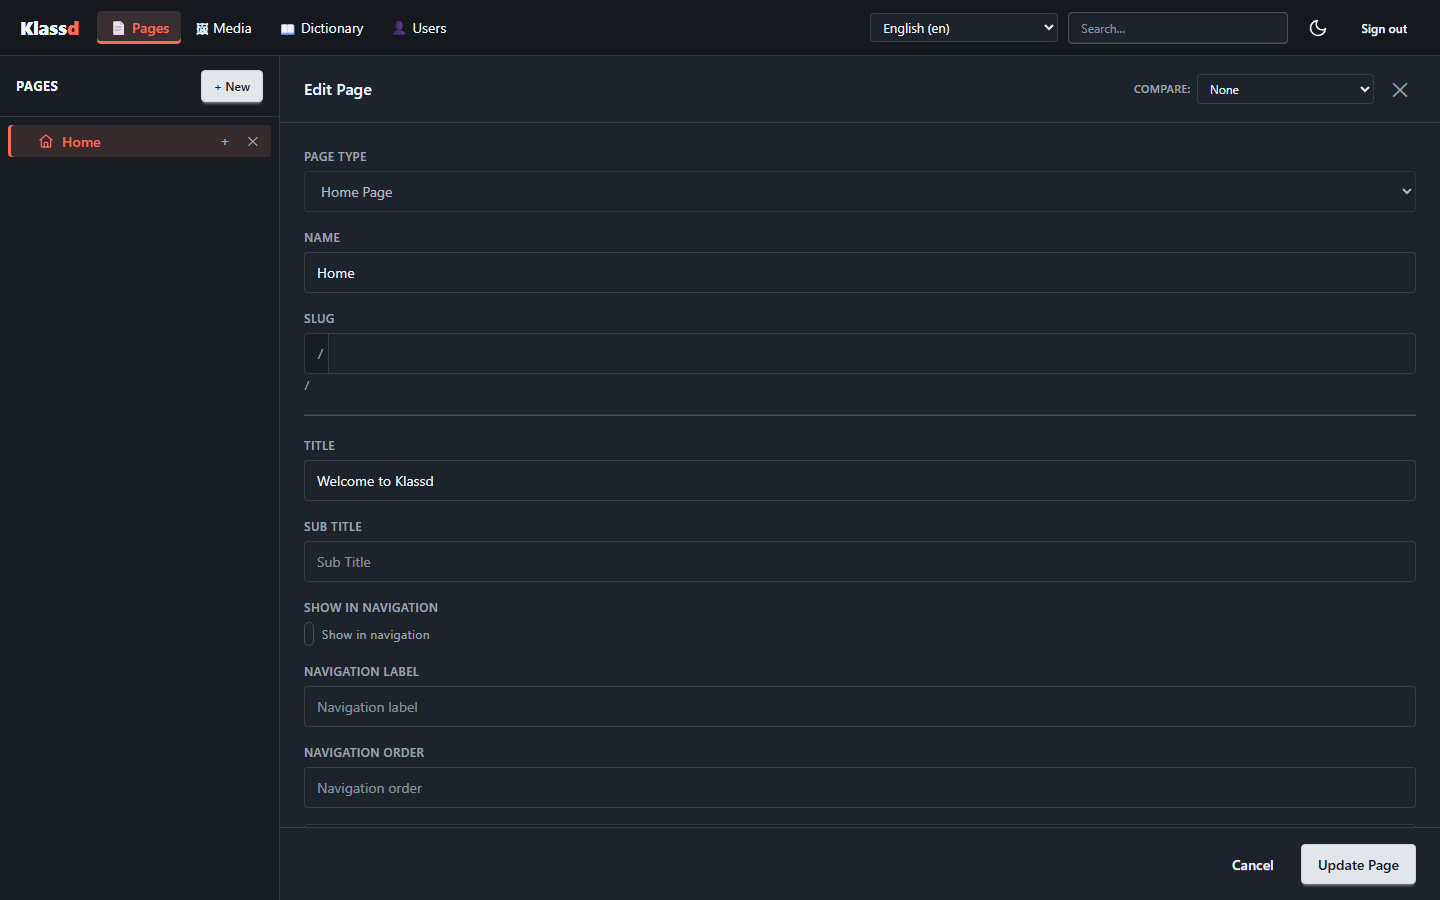
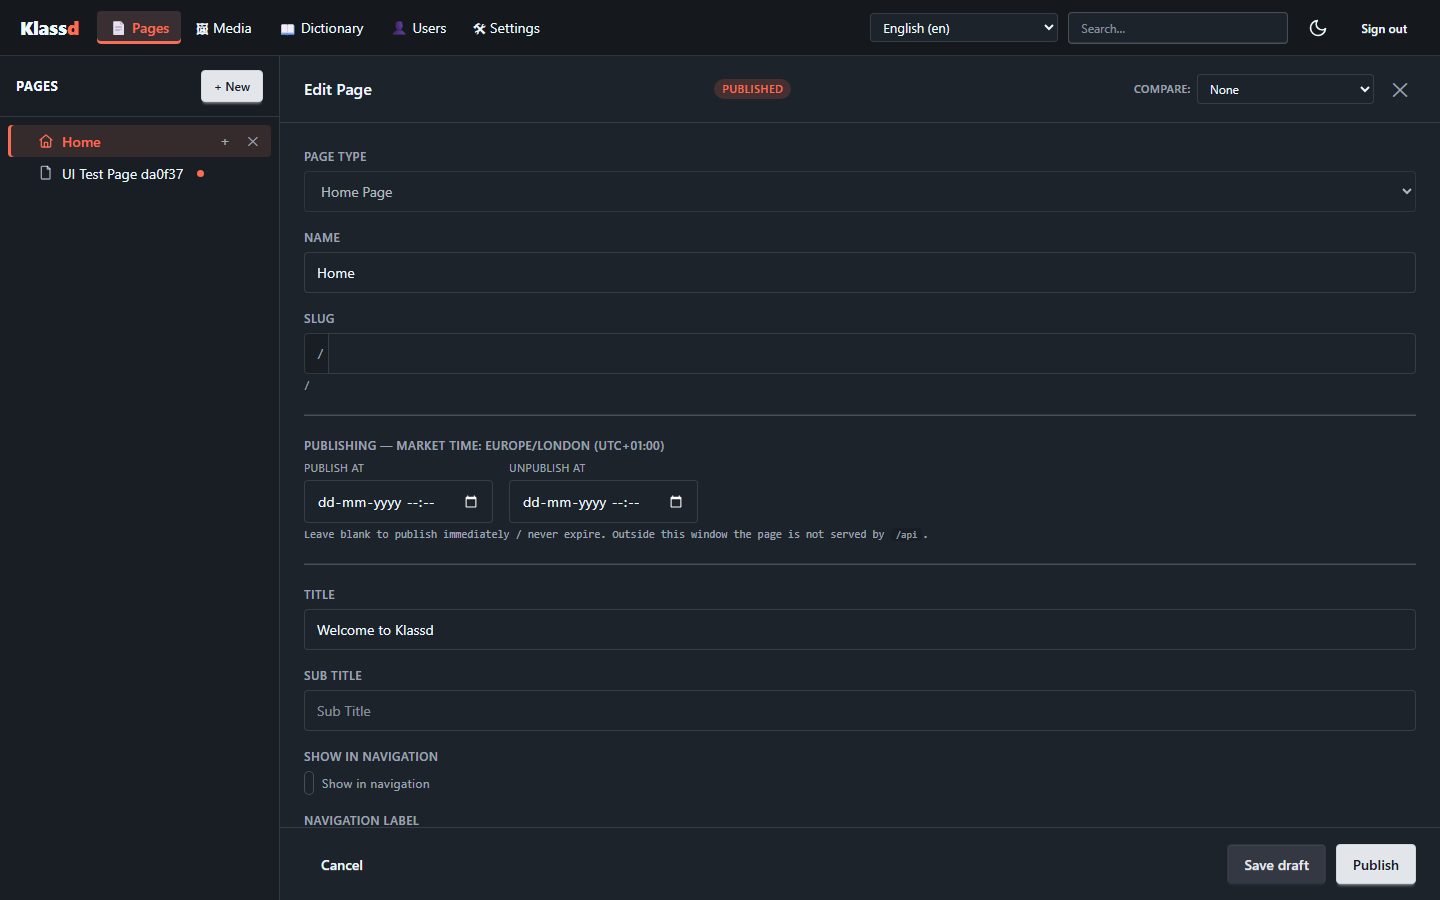
test: repair admin screenshot capture after editor save/publish split
The capture test clicked a 'Save Page' button that no longer exists (the editor now splits persistence into 'Save draft' and 'Publish'), so it timed out at 30s and failed on main. Switch to 'Publish' (persists, closes the panel, shows a live page in the tree) and regenerate the docs screenshots, which now also reflect the new Settings nav item.

diff --git a/tests/Klassd.UiTests/ScreenshotCaptureTests.cs b/tests/Klassd.UiTests/ScreenshotCaptureTests.cs
@@ -87,8 +87,9 @@ public class ScreenshotCaptureTests : PageTest
         await Page.Locator(".add-block-form input[type='text']").First.FillAsync("Code-first content, no compromises");
         await ShotAsync("03-page-editor.png", fullPage: false);
 
-        // Persist so the tree isn't empty for the next shot.
-        await Page.ClickAsync("button:has-text('Save Page')");
+        // Persist so the tree isn't empty for the next shot. (The editor splits save into
+        // "Save draft" and "Publish"; publish makes a live page that's shown in the tree.)
+        await Page.ClickAsync("button:has-text('Publish')");
         await Expect(Page.Locator(".editor-inline")).Not.ToBeVisibleAsync();
         await Expect(Page.Locator(".tree-title:has-text('Home')").First).ToBeVisibleAsync();
 
